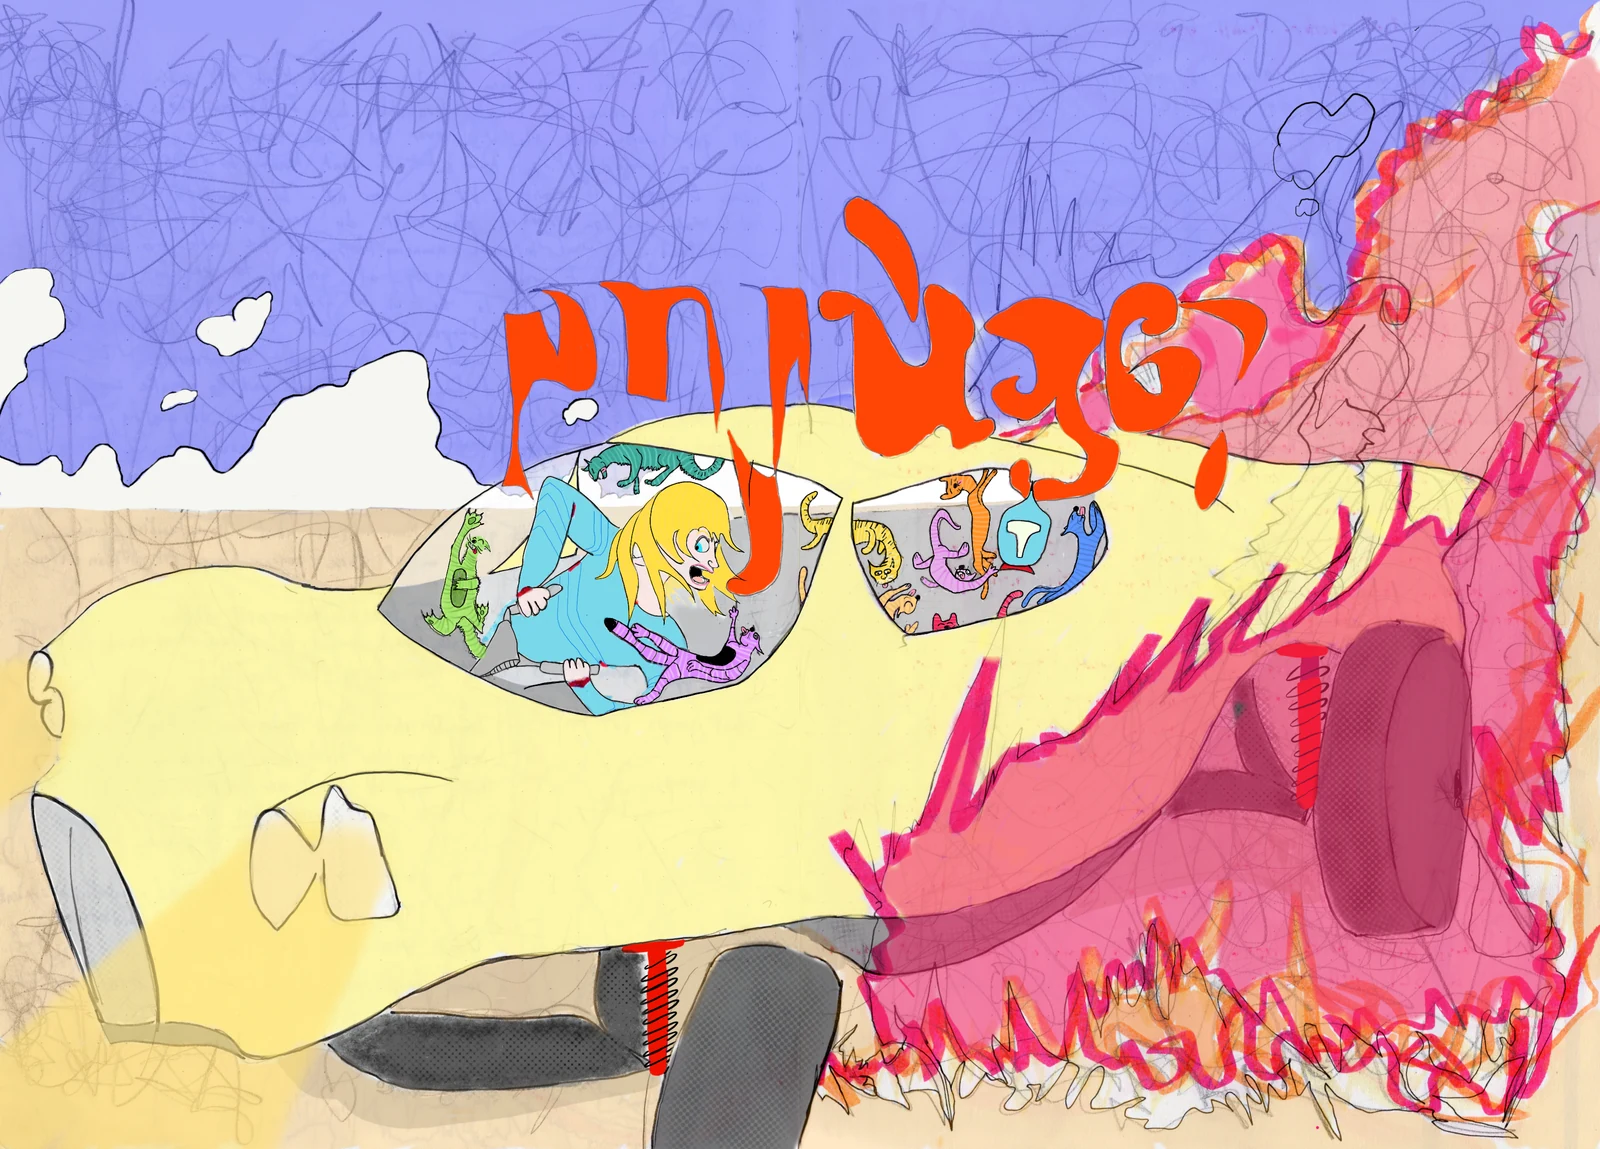
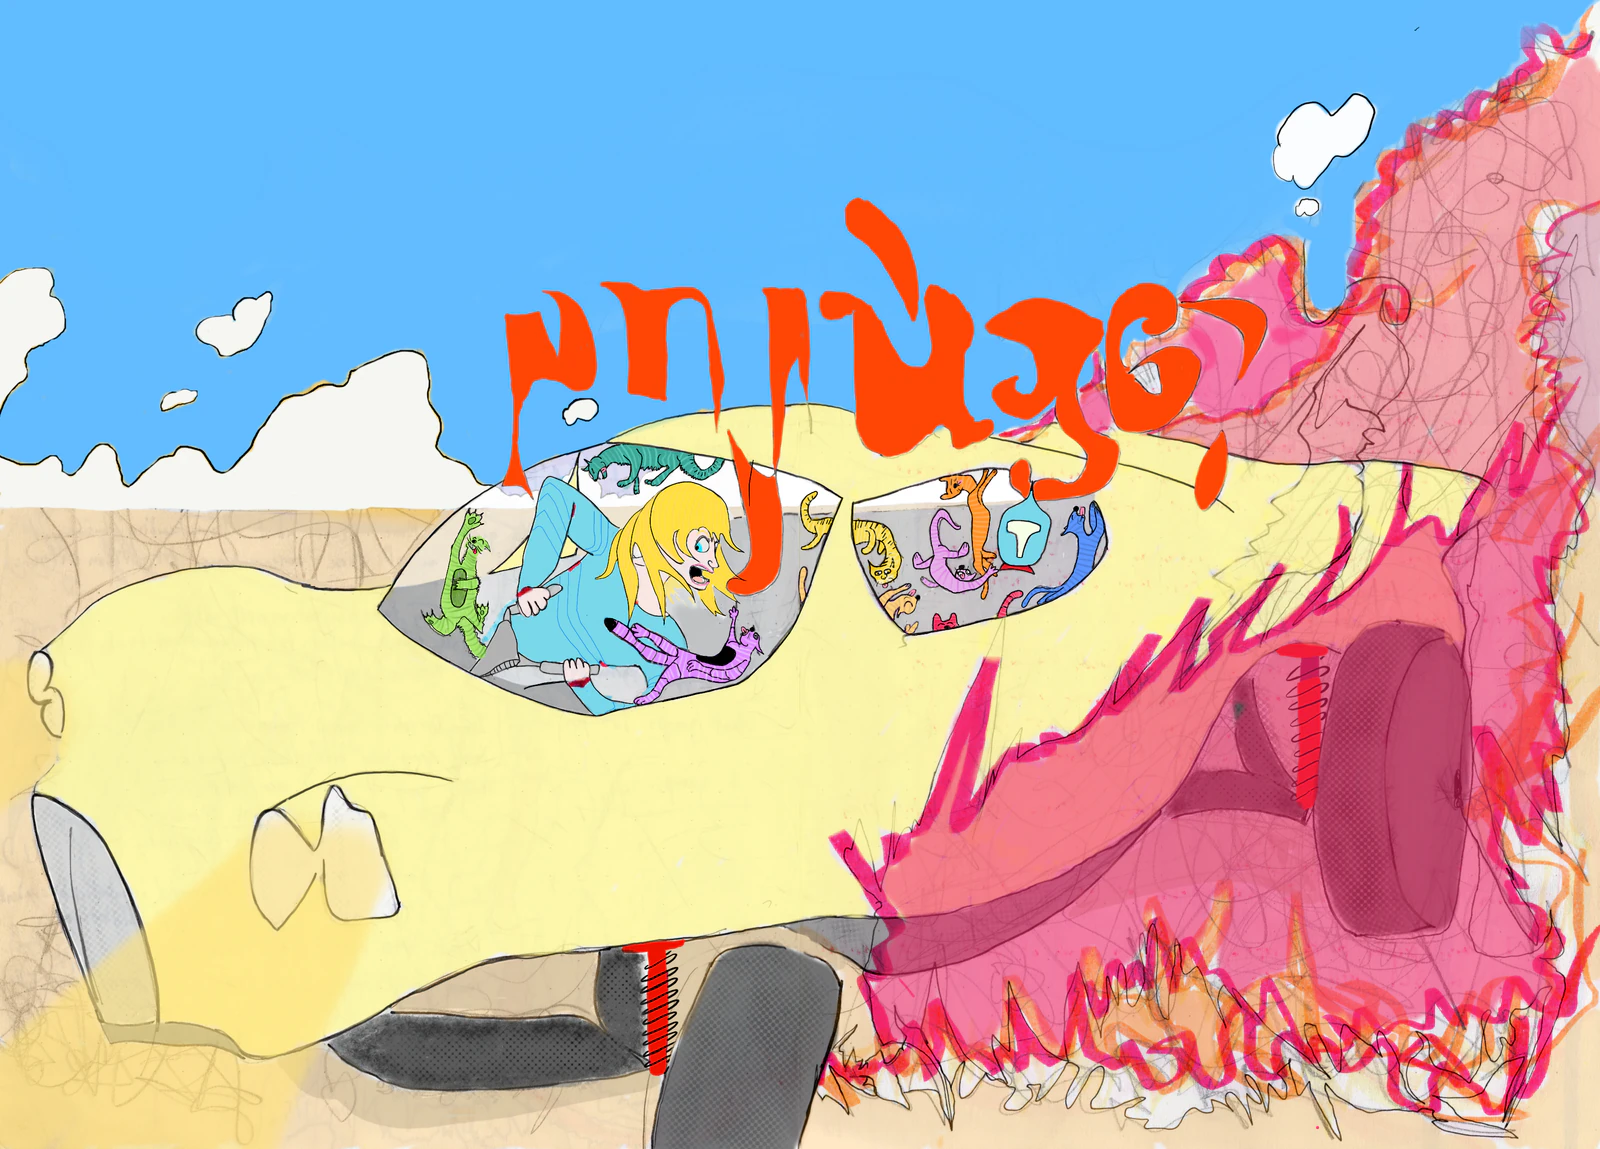
fix

Changed region(s): [[0.0, 0.0, 1.0, 0.4265], [0.2188, 0.4265, 0.2812, 0.4569]]

diff --git a/src/content/logs/pnjauggi.md b/src/content/logs/pnjauggi.md
@@ -10,4 +10,4 @@ onSite: true
 
 ### pnjaúggi
 
-![](https://firebasestorage.googleapis.com/v0/b/tejvir-website.appspot.com/o/pnjauggi%2Fpnjauggi.webp?alt=media&token=52d0e884-2752-4b0b-a420-5f7fd418face)
+![](https://firebasestorage.googleapis.com/v0/b/tejvir-website.appspot.com/o/pnjauggi%2Fpnjauggi.webp?alt=media&token=eba488b2-fc12-487c-a19f-23fa5225a045)
